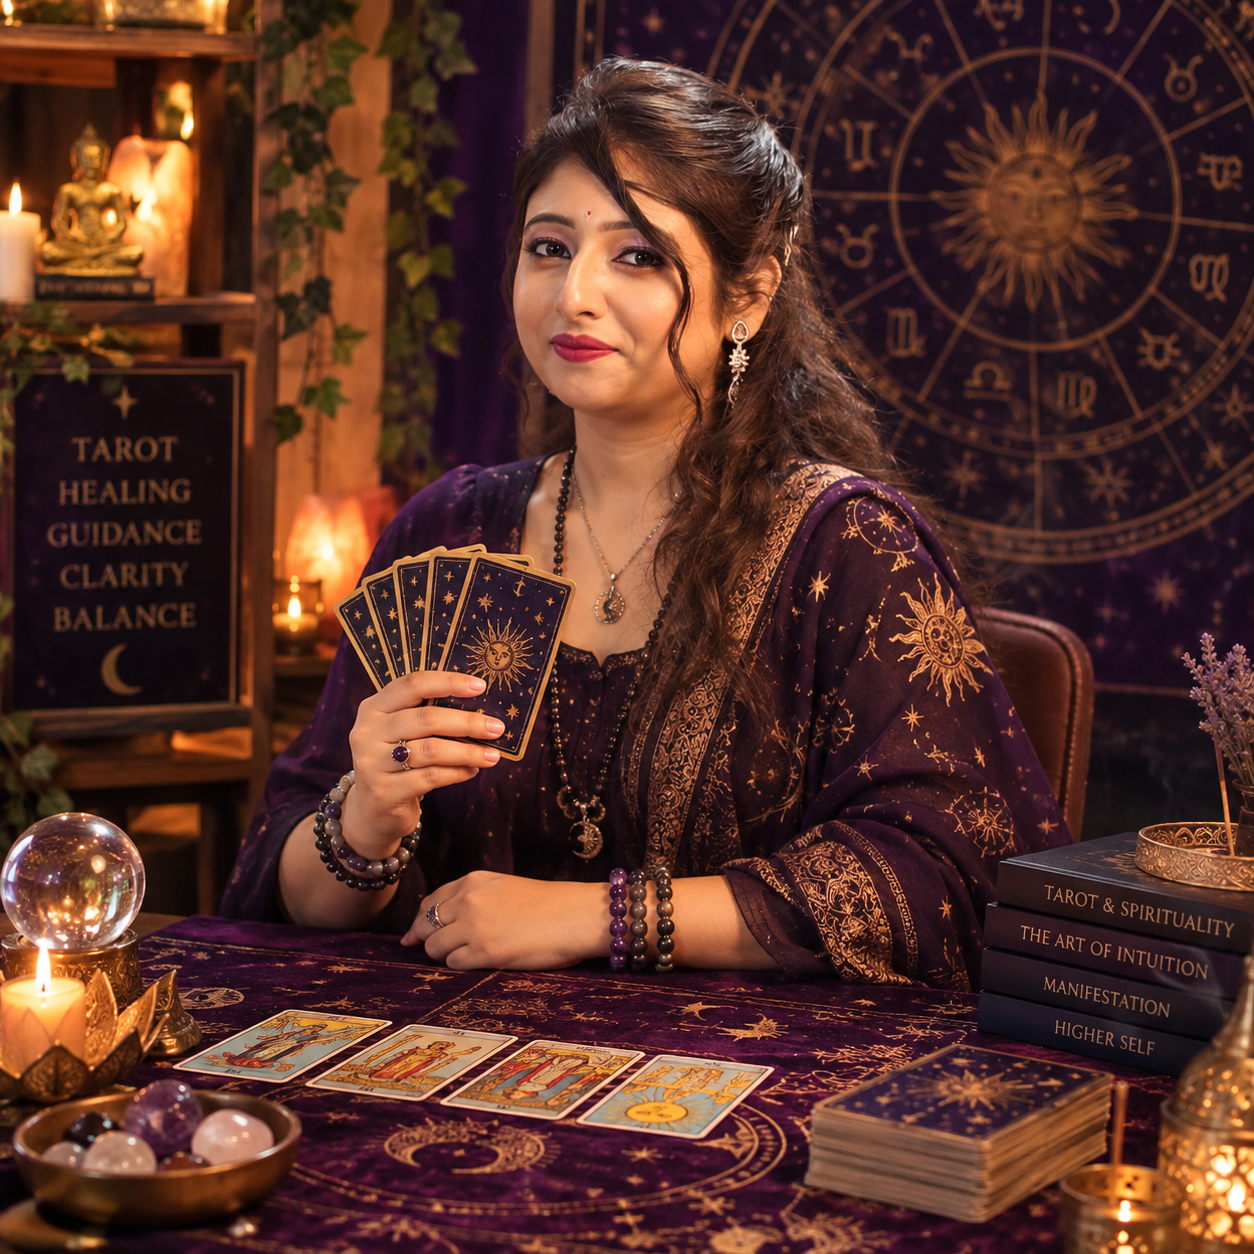
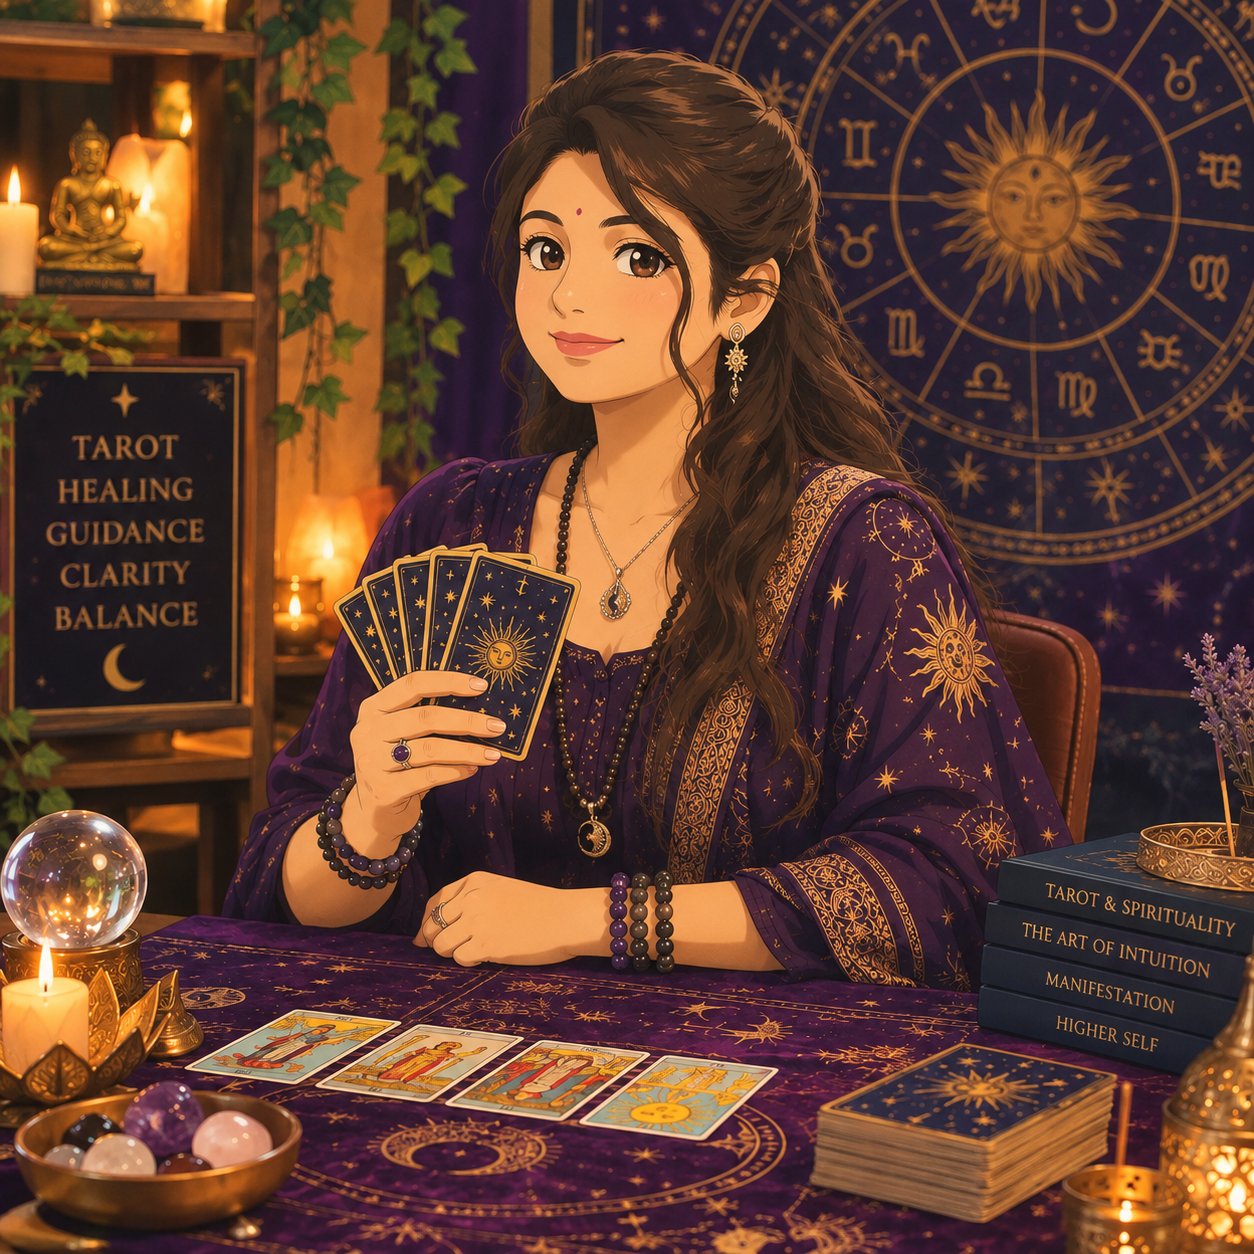
feat: add experience of admin and owner

diff --git a/app/pages/about.vue b/app/pages/about.vue
@@ -10,16 +10,32 @@ interface Profile {
   image: string
 }
 
-interface Certificate {
-  title: string
-  organization: string
-  year: string
-  image: string
-}
+// Certificates temporarily disabled
+// interface Certificate {
+//   title: string
+//   organization: string
+//   year: string
+//   image: string
+// }
 
 const { data: astrologer, pending: astrologerPending } = await useFetch<Profile>('/api/profile/astrologer')
 const { data: admin, pending: adminPending } = await useFetch<Profile>('/api/profile/admin')
-const { data: certificates, pending: certsPending } = await useFetch<Certificate[]>('/api/certificates')
+// const { data: certificates, pending: certsPending } = await useFetch<Certificate[]>('/api/certificates')
+
+const pillars = [
+  {
+    title: 'Tarot',
+    text: 'A mirror for what you already feel but cannot yet name. Each spread brings hidden patterns, choices and turning points into the light.'
+  },
+  {
+    title: 'Astrology',
+    text: 'Your birth chart is a map of the energies you arrived with, showing your gifts, your lessons and the timing of the seasons in your life.'
+  },
+  {
+    title: 'Intuitive Guidance',
+    text: 'Gentle, honest conversation that connects the symbols with your real life, so insight turns into steps you can actually take.'
+  }
+]
 
 // Hero entrance
 const heroVisible = ref(false)
@@ -52,7 +68,7 @@ onMounted(() => {
     <LayoutAppHeader />
 
     <!-- Hero: What is Soul Contracts -->
-    <section class="relative pt-32 pb-20 px-6 overflow-hidden">
+    <section class="relative pt-32 pb-12 px-6 overflow-hidden">
       <div class="absolute top-0 left-1/2 -translate-x-1/2 w-[36rem] h-[36rem] bg-[#3A2748] rounded-full blur-3xl opacity-40"></div>
 
       <Transition
@@ -63,16 +79,51 @@ onMounted(() => {
       >
         <div v-if="heroVisible" class="relative max-w-3xl mx-auto text-center">
           <p class="uppercase tracking-[0.3em] text-xs text-[#D9A65C] mb-5">What is Soul Contracts</p>
-          <h1 class="font-serif text-4xl md:text-5xl text-[#F7F1E8] mb-6">
+          <h1 class="font-serif text-4xl md:text-5xl text-[#F7F1E8] mb-8">
             Where Ancient Wisdom Meets <span class="text-[#D9A65C]">Modern Clarity</span>
           </h1>
-          <p class="text-[#C9BFAF] leading-relaxed max-w-xl mx-auto">
-            Soul Contracts is a space for tarot, astrology, and intuitive
-            guidance — built to help you understand the agreements your soul
-            made before this life, and the path it's asking you to walk now.
-          </p>
+
+          <div class="space-y-5 text-[#C9BFAF] leading-relaxed max-w-2xl mx-auto">
+            <p>
+              Soul Contracts is a space for tarot, astrology, and intuitive
+              guidance, built to help you understand the agreements your soul
+              made before this life, and the path it is asking you to walk now.
+            </p>
+            <p>
+              Many of us sense that certain people, patterns and lessons keep
+              returning to us for a reason. We call these <span class="text-[#D9A65C]">soul contracts</span>:
+              the relationships, challenges and callings we agreed to meet in
+              order to grow. Some feel like gifts, others like heavy
+              repetition, but each one carries a purpose.
+            </p>
+            <p>
+              Here, ancient tools like the tarot and the birth chart are used
+              not to predict a fixed fate, but to bring clarity. They help you
+              see what is truly happening beneath the surface, release what no
+              longer serves you, and make choices that feel aligned with who
+              you really are.
+            </p>
+            <p class="font-serif italic text-[#F7F1E8]">
+              You are not here by accident, and you are not walking this path
+              alone.
+            </p>
+          </div>
         </div>
       </Transition>
+    </section>
+
+    <!-- Pillars: how Soul Contracts works -->
+    <section :ref="addRevealEl" class="reveal relative pb-20 px-6">
+      <div class="max-w-5xl mx-auto grid md:grid-cols-3 gap-6">
+        <div
+          v-for="pillar in pillars"
+          :key="pillar.title"
+          class="bg-[#2A1D33] border border-[#D9A65C]/30 rounded-2xl p-6 text-center"
+        >
+          <h3 class="font-serif text-lg text-[#D9A65C] mb-3">{{ pillar.title }}</h3>
+          <p class="text-sm text-[#C9BFAF] leading-relaxed">{{ pillar.text }}</p>
+        </div>
+      </div>
     </section>
 
     <!-- Astrologer Profile -->
@@ -111,7 +162,8 @@ onMounted(() => {
       </div>
     </section>
 
-    <!-- Certificates -->
+    <!--
+      Certificates section
     <section class="bg-[#1E1424] py-24 px-6">
       <div class="max-w-6xl mx-auto">
         <div :ref="addRevealEl" class="reveal text-center mb-14">
@@ -149,28 +201,81 @@ onMounted(() => {
         </div>
       </div>
     </section>
+    -->
 
     <!-- Website Admin -->
-    <section :ref="addRevealEl" class="reveal bg-[#F7F1E8] py-20 px-6">
-      <div v-if="adminPending" class="text-center text-[#6B6270] text-sm">Loading...</div>
+    <section :ref="addRevealEl" class="reveal bg-[#1E1424] py-20 px-6">
+      <div v-if="adminPending" class="text-center text-[#C9BFAF] text-sm">Loading...</div>
 
       <div v-else-if="admin" class="max-w-5xl mx-auto">
         <div class="text-center mb-12">
-          <p class="uppercase tracking-[0.3em] text-xs text-[#8C6FB0] mb-3">Behind This Website</p>
-          <h2 class="font-serif text-3xl md:text-4xl text-[#1E1424]">About Admin</h2>
+          <p class="uppercase tracking-[0.3em] text-xs text-[#D9A65C] mb-3">Behind This Website</p>
+          <h2 class="font-serif text-3xl md:text-4xl text-[#F7F1E8]">About Admin</h2>
         </div>
 
         <div class="grid md:grid-cols-[auto_1fr] gap-10 items-center">
-          <div class="flex justify-center">
-            <div class="w-44 h-44 rounded-full overflow-hidden border border-[#8C6FB0]/40 shadow-lg">
-              <img :src="admin.image" :alt="admin.name" class="w-full h-full object-cover" />
+          <div class="flex flex-col items-center gap-6">
+            <div class="relative">
+              <div class="w-44 h-44 rounded-full overflow-hidden border border-[#D9A65C]/40 shadow-lg">
+                <img :src="admin.image" :alt="admin.name" class="w-full h-full object-cover" />
+              </div>
+              <div
+                v-if="admin.yearsExperience"
+                class="absolute -bottom-3 -right-3 bg-[#2A1D33] border border-[#D9A65C]/50 rounded-full w-20 h-20 flex flex-col items-center justify-center shadow-lg"
+              >
+                <p class="font-serif text-xl text-[#D9A65C] leading-none">{{ admin.yearsExperience }}+</p>
+                <p class="text-[8px] uppercase tracking-wide text-[#C9BFAF] mt-1">Years</p>
+              </div>
+            </div>
+
+            <div class="flex items-center gap-4">
+              <a
+                href="https://nilima-kumar.vercel.app/"
+                target="_blank"
+                rel="noopener noreferrer"
+                aria-label="Portfolio"
+                title="Portfolio"
+                class="w-10 h-10 rounded-full border border-[#D9A65C]/40 text-[#D9A65C] flex items-center justify-center hover:bg-[#D9A65C] hover:text-[#1E1424] transition-colors duration-200"
+              >
+                <svg class="w-5 h-5" viewBox="0 0 24 24" fill="none" stroke="currentColor" stroke-width="1.8" stroke-linecap="round" stroke-linejoin="round">
+                  <rect x="3" y="7" width="18" height="13" rx="2" />
+                  <path d="M9 7V5a2 2 0 012-2h2a2 2 0 012 2v2" />
+                  <path d="M3 13h18" />
+                </svg>
+              </a>
+
+              <a
+                href="https://github.com/kumarnilima1512-bit"
+                target="_blank"
+                rel="noopener noreferrer"
+                aria-label="GitHub"
+                title="GitHub"
+                class="w-10 h-10 rounded-full border border-[#D9A65C]/40 text-[#D9A65C] flex items-center justify-center hover:bg-[#D9A65C] hover:text-[#1E1424] transition-colors duration-200"
+              >
+                <svg class="w-5 h-5" viewBox="0 0 24 24" fill="currentColor">
+                  <path d="M12 .297c-6.63 0-12 5.373-12 12 0 5.303 3.438 9.8 8.205 11.385.6.113.82-.258.82-.577 0-.285-.01-1.04-.015-2.04-3.338.724-4.042-1.61-4.042-1.61C4.422 18.07 3.633 17.7 3.633 17.7c-1.087-.744.084-.729.084-.729 1.205.084 1.838 1.236 1.838 1.236 1.07 1.835 2.809 1.305 3.495.998.108-.776.417-1.305.76-1.605-2.665-.3-5.466-1.332-5.466-5.93 0-1.31.465-2.38 1.235-3.22-.135-.303-.54-1.523.105-3.176 0 0 1.005-.322 3.3 1.23.96-.267 1.98-.399 3-.405 1.02.006 2.04.138 3 .405 2.28-1.552 3.285-1.23 3.285-1.23.645 1.653.24 2.873.12 3.176.765.84 1.23 1.91 1.23 3.22 0 4.61-2.805 5.625-5.475 5.92.42.36.81 1.096.81 2.22 0 1.606-.015 2.896-.015 3.286 0 .315.21.69.825.57C20.565 22.092 24 17.592 24 12.297c0-6.627-5.373-12-12-12" />
+                </svg>
+              </a>
+
+              <a
+                href="https://www.linkedin.com/in/nilimakumar?utm_source=share_via&utm_content=profile&utm_medium=member_android"
+                target="_blank"
+                rel="noopener noreferrer"
+                aria-label="LinkedIn"
+                title="LinkedIn"
+                class="w-10 h-10 rounded-full border border-[#D9A65C]/40 text-[#D9A65C] flex items-center justify-center hover:bg-[#D9A65C] hover:text-[#1E1424] transition-colors duration-200"
+              >
+                <svg class="w-5 h-5" viewBox="0 0 24 24" fill="currentColor">
+                  <path d="M20.447 20.452h-3.554v-5.569c0-1.328-.027-3.037-1.852-3.037-1.853 0-2.136 1.445-2.136 2.939v5.667H9.351V9h3.414v1.561h.046c.477-.9 1.637-1.85 3.37-1.85 3.601 0 4.267 2.37 4.267 5.455v6.286zM5.337 7.433a2.062 2.062 0 01-2.063-2.065 2.064 2.064 0 112.063 2.065zm1.782 13.019H3.555V9h3.564v11.452zM22.225 0H1.771C.792 0 0 .774 0 1.729v20.542C0 23.227.792 24 1.771 24h20.451C23.2 24 24 23.227 24 22.271V1.729C24 .774 23.2 0 22.222 0h.003z" />
+                </svg>
+              </a>
             </div>
           </div>
 
           <div class="text-center md:text-left">
-            <p class="uppercase tracking-[0.3em] text-xs text-[#8C6FB0] mb-2">{{ admin.tagline }}</p>
-            <h3 class="font-serif text-xl text-[#1E1424] mb-3">{{ admin.name }}</h3>
-            <p class="text-sm text-[#6B6270] leading-relaxed whitespace-pre-line mb-6">{{ admin.bio }}</p>
+            <p class="uppercase tracking-[0.3em] text-xs text-[#D9A65C] mb-2">{{ admin.tagline }}</p>
+            <h3 class="font-serif text-xl text-[#F7F1E8] mb-3">{{ admin.name }}</h3>
+            <p class="text-sm text-[#C9BFAF] leading-relaxed whitespace-pre-line mb-6">{{ admin.bio }}</p>
 
             <div v-if="admin.works.length">
               <p class="text-xs uppercase tracking-wide text-[#8C7A9C] mb-2">Other Works</p>
@@ -178,7 +283,7 @@ onMounted(() => {
                 <li
                   v-for="work in admin.works"
                   :key="work"
-                  class="text-xs bg-[#8C6FB0]/10 text-[#8C6FB0] px-3 py-1.5 rounded-full"
+                  class="text-xs bg-[#D9A65C]/10 text-[#D9A65C] px-3 py-1.5 rounded-full"
                 >
                   {{ work }}
                 </li>
@@ -190,14 +295,14 @@ onMounted(() => {
     </section>
 
     <!-- CTA -->
-    <section :ref="addRevealEl" class="reveal bg-[#1E1424] py-20 px-6 text-center border-t border-white/10">
-      <h2 class="font-serif text-3xl md:text-4xl text-[#F7F1E8] mb-4">
+    <section :ref="addRevealEl" class="reveal bg-[#F7F1E8] py-20 px-6 text-center">
+      <h2 class="font-serif text-3xl md:text-4xl text-[#1E1424] mb-4">
         Ready to See What the Cards Reveal?
       </h2>
-      <p class="text-[#C9BFAF] text-sm mb-8">
+      <p class="text-[#6B6270] text-sm mb-8">
         Book a one-on-one tarot session and get personalized insight into your journey.
       </p>
-      <NuxtLink to="/contact" class="inline-flex items-center gap-2 bg-[#D9A65C] text-[#1E1424] font-medium px-8 py-3 rounded-full text-sm hover:bg-[#c99648] transition-colors duration-200">
+      <NuxtLink to="/contact" class="inline-flex items-center gap-2 bg-[#1E1424] text-[#D9A65C] font-medium px-8 py-3 rounded-full text-sm hover:bg-[#2A1D33] transition-colors duration-200">
         <svg class="w-4 h-4" viewBox="0 0 24 24" fill="none" stroke="currentColor" stroke-width="2">
           <rect x="3" y="5" width="18" height="16" rx="2" />
           <path d="M16 3v4M8 3v4M3 10h18" />
